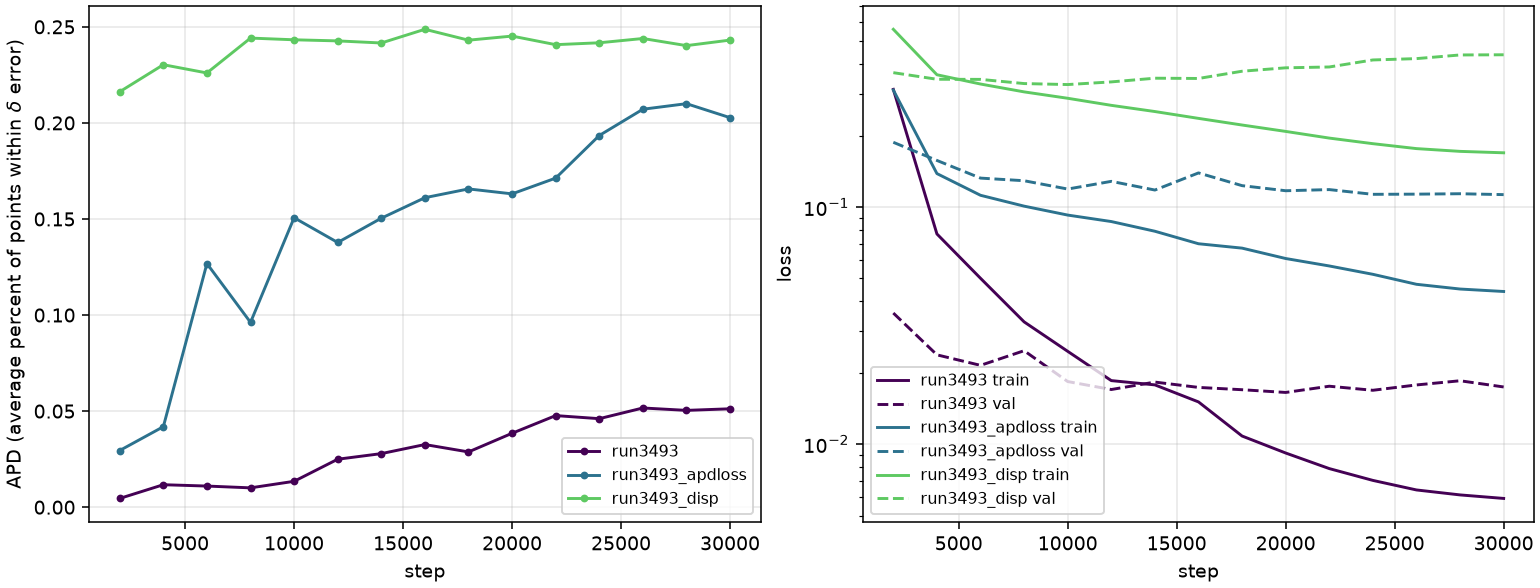
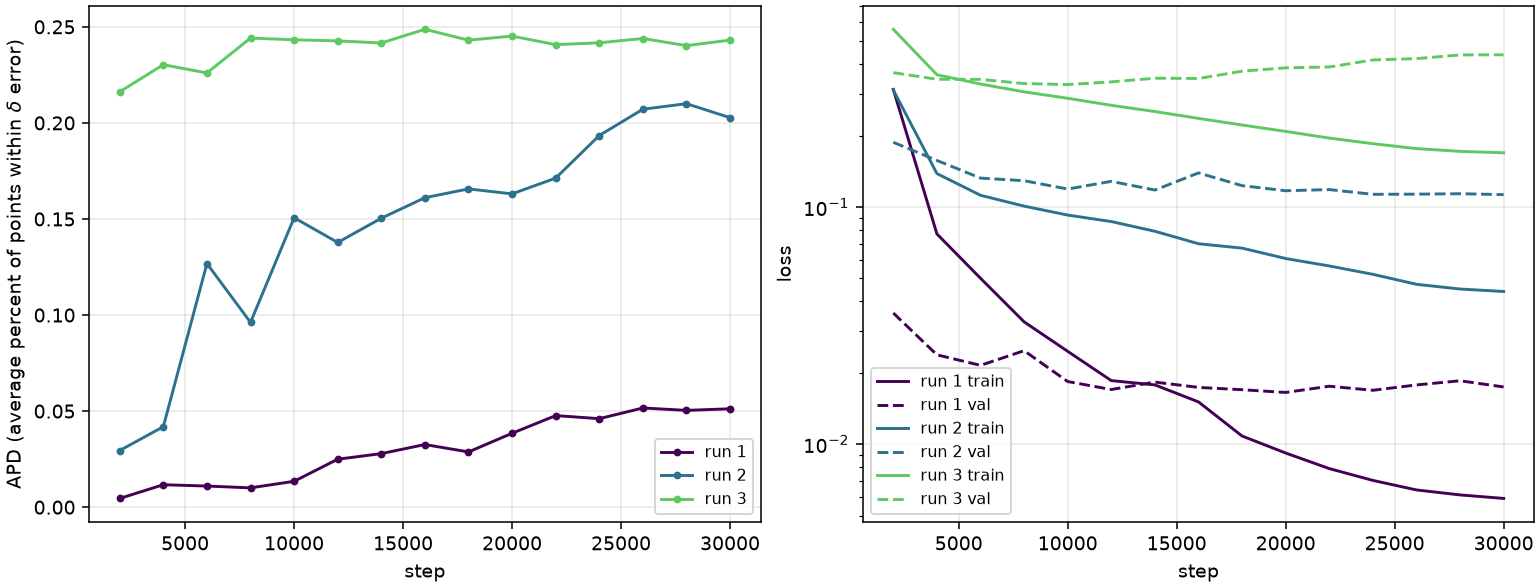
Move the plot script into runs/ and label series by position
It is run alongside the logs, not from scripts/. The legend uses run numbers so
it stays readable as names grow; README.md's table carries the numbering.

Changed region(s): [[0.5922, 0.6122, 0.7169, 0.8878], [0.374, 0.7347, 0.4987, 0.8878]]

diff --git a/runs/plot.py b/runs/plot.py
@@ -4,7 +4,10 @@ Overlay several runs' `log.json` on shared axes.
 `plot_log.py` draws a single run. A run is only interpretable against the one
 it changed, so comparisons need them on the same axes.
 
-Run:  python scripts/plot_runs.py runs/run3493.json runs/run3493_apdloss.json
+Runs are labelled by position, so the legend stays readable as names grow;
+the table in README.md maps each number to what changed.
+
+Run:  python runs/plot.py runs/*.json
 """
 
 import argparse
@@ -22,7 +25,8 @@ def main() -> int:
     p.add_argument("--out", type=Path, default=Path("runs/compare.png"))
     args = p.parse_args()
 
-    runs = [(f.stem, json.loads(f.read_text())) for f in args.logs]
+    runs = [(f"run {i}", json.loads(f.read_text()))
+            for i, f in enumerate(args.logs, 1)]
     fig, ax = plt.subplots(1, 2, figsize=(11, 4.2), constrained_layout=True)
     colours = plt.cm.viridis([i / max(len(runs) - 1, 1) * 0.75 for i in range(len(runs))])
 
@@ -46,10 +50,10 @@ def main() -> int:
     fig.savefig(args.out, dpi=140)
     print(f"wrote {args.out}")
 
-    for name, e in runs:
+    for (name, e), f in zip(runs, args.logs):
         best = max(e, key=lambda x: x["average_pts_within_thresh"])
-        print(f"  {name:22} best APD {best['average_pts_within_thresh']:.4f}"
-              f" at step {best['step']}")
+        print(f"  {name}  {f.stem:22} best APD "
+              f"{best['average_pts_within_thresh']:.4f} at step {best['step']}")
     return 0
 
 

diff --git a/runs/README.md b/runs/README.md
@@ -5,10 +5,11 @@ One `log.json` per run.
 APD is `average_pts_within_thresh` from TAP-Vid-3D, scored in metres. Higher is
 better.
 
-| run | commit | steps | best val APD | test APD | what changed |
-| --- | --- | --- | --- | --- | --- |
-| `run3493` | `cabc639` | 30000 | 0.0516 | 0.0105 | first full-dataset run, 3144 train clips |
-| `run3493_apdloss` | `0796ab2` | 30000 | 0.2100 | — | depth weighted loss + frame 0 starting pinned + l21 instead of l2 |
-| `run3493_disp` | `ef50476` | 30000 | 0.2487 | — | per-point displacement target instead of absolute |
+| # | run | commit | steps | best val APD | test APD | what changed |
+| --- | --- | --- | --- | --- | --- | --- |
+| 1 | `run3493` | `cabc639` | 30000 | 0.0516 | 0.0105 | first full-dataset run, 3144 train clips |
+| 2 | `run3493_apdloss` | `0796ab2` | 30000 | 0.2100 | — | depth weighted loss + frame 0 starting pinned + l21 instead of l2 |
+| 3 | `run3493_disp` | `ef50476` | 30000 | 0.2487 | — | per-point displacement target instead of absolute |
 
-`compare.png` overlays every run: `python scripts/plot_runs.py runs/*.json`
+`compare.png` overlays every run: `python runs/plot.py runs/*.json`
+Legend labels are positional -- run 1 is the first file on the command line.
